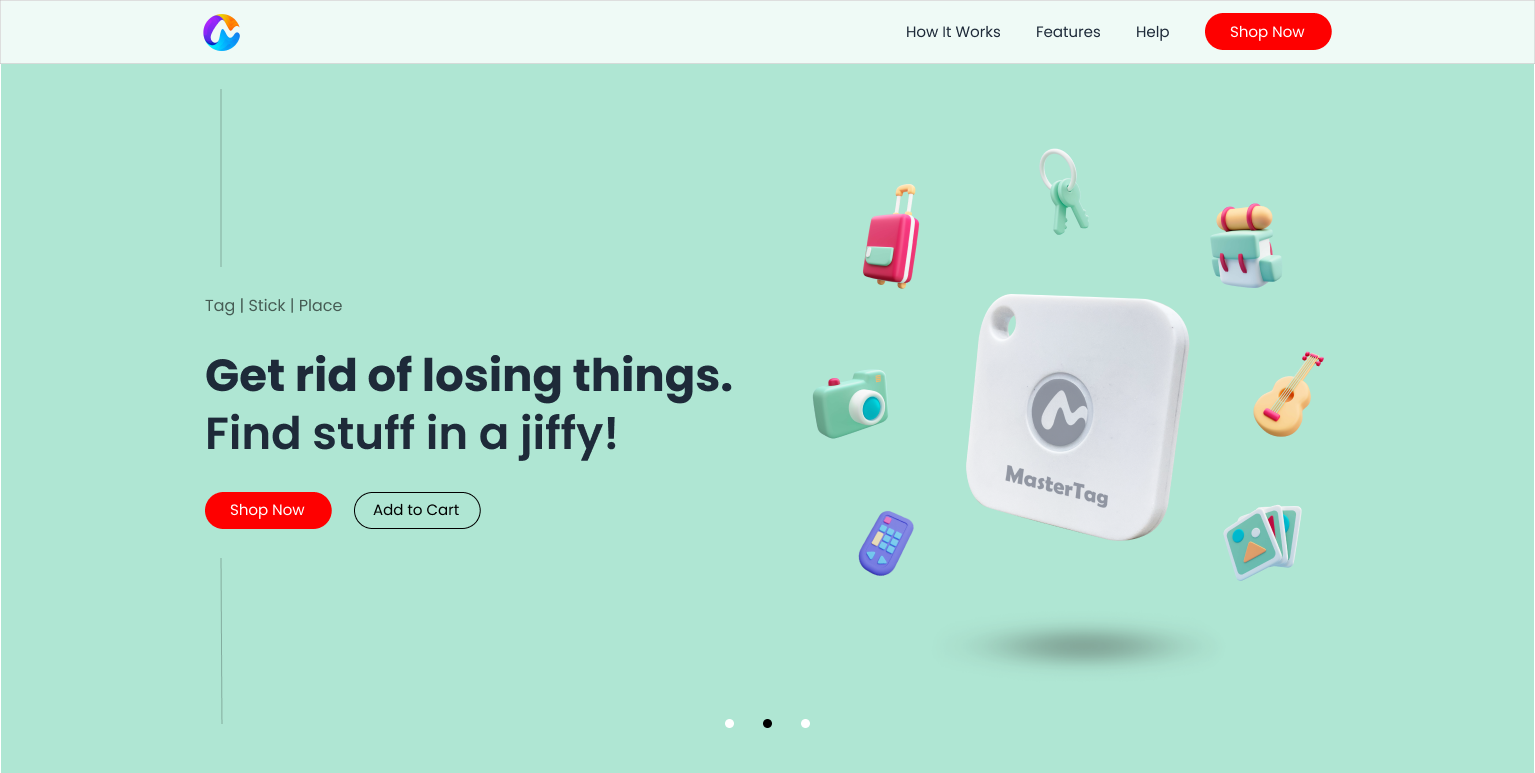
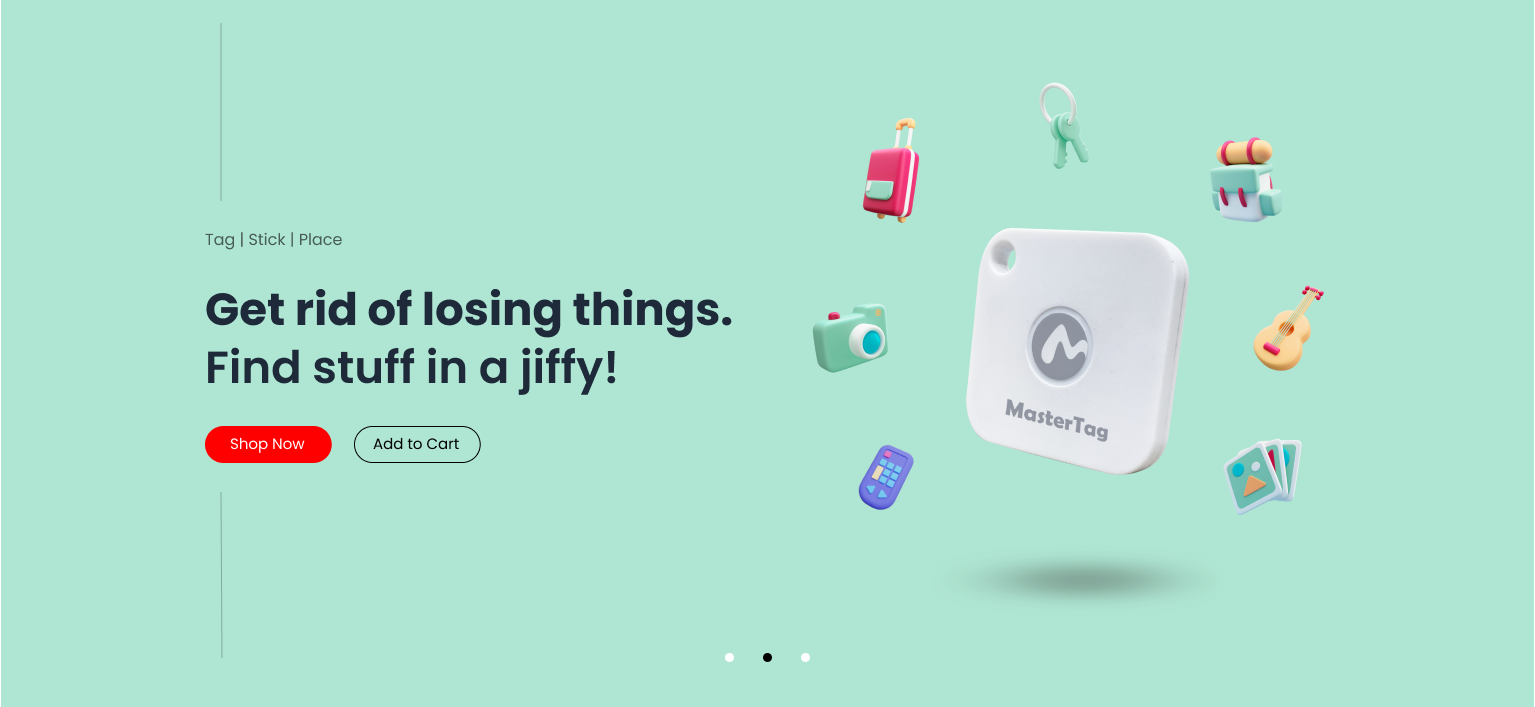
fixed cover image

diff --git a/index.html b/index.html
@@ -54,17 +54,24 @@
         </div> -->
         <div class="landing-page">
 
-            <img id="img1" class="img1" src="./images/main1.png" alt="main1" usemap="#main2-map">
-            <map name="main2-map">
-                <area shape="rect" coords="190,490,330,530" href="shop.html" alt="">
-                <area shape="rect" coords="352,490,480,530" href="shop.html" alt="">
-                <area shape="rect" coords="490,700,1050,860" onclick="changeMain1()" alt="">
-                <area shape="rect" coords="800,100,1400,760" onclick="changeMain1()" alt="">
 
-            </map>
 
             <center>
                 <div class="lp-part1">
+
+                    <img id="img1" class="img1" src="./images/main1.png" alt="main1" usemap="#main2-map">
+                    <map name="main2-map">
+                        <area shape="rect" coords="190,490,330,530" href="shop.html" alt="">
+                        <area shape="rect" coords="352,490,480,530" href="shop.html" alt="">
+                        <area shape="rect" coords="490,700,1050,860" onclick="changeMain1()" alt="">
+                        <area shape="rect" coords="800,100,1400,760" onclick="changeMain1()" alt="">
+
+                    </map>
+                    <br>
+                    <br>
+                    <br>
+                    <br>
+                    <br>
                     <img src="./images/Group 274.png" alt="" class="lp-img1" usemap="#lp-map-1">
                     <map name="lp-map-1">
                         <area shape="rect" coords="572,102,699,138" href="shop.html" alt="">

diff --git a/index.css b/index.css
@@ -8,8 +8,8 @@
 }
 
 .lp-part1 {
-    padding: 60px;
-    padding-bottom: 0;
+    padding: 60px 0 0 0;
+    /* padding-bottom: 0; */
 }
 
 .lp-img1 .lp-img2 {
